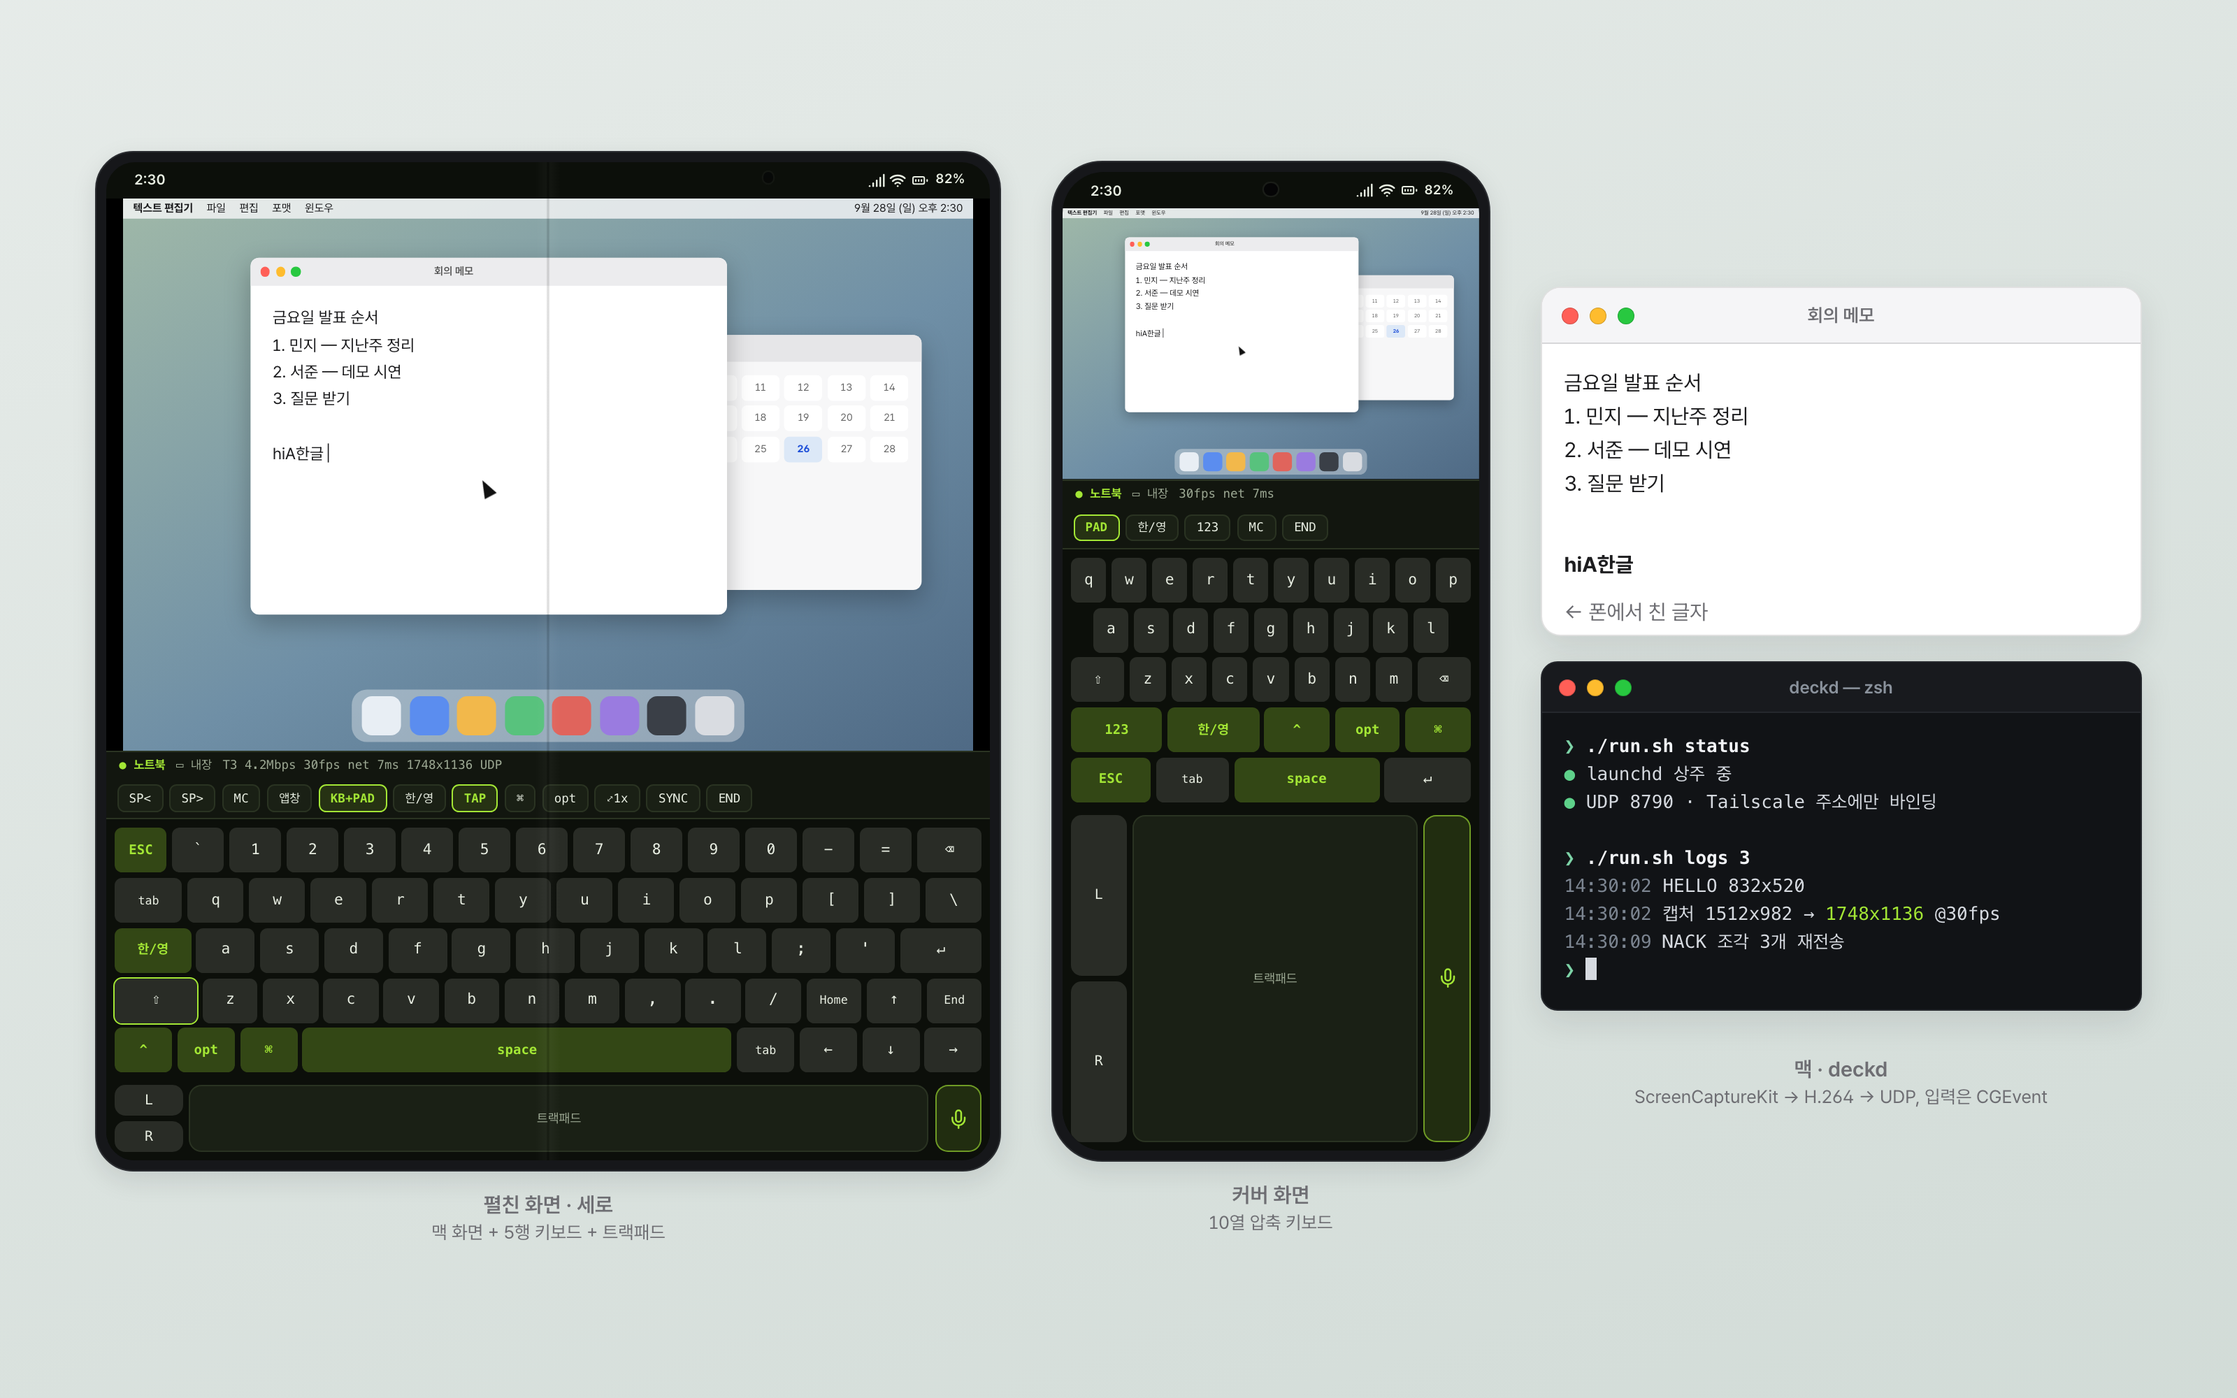
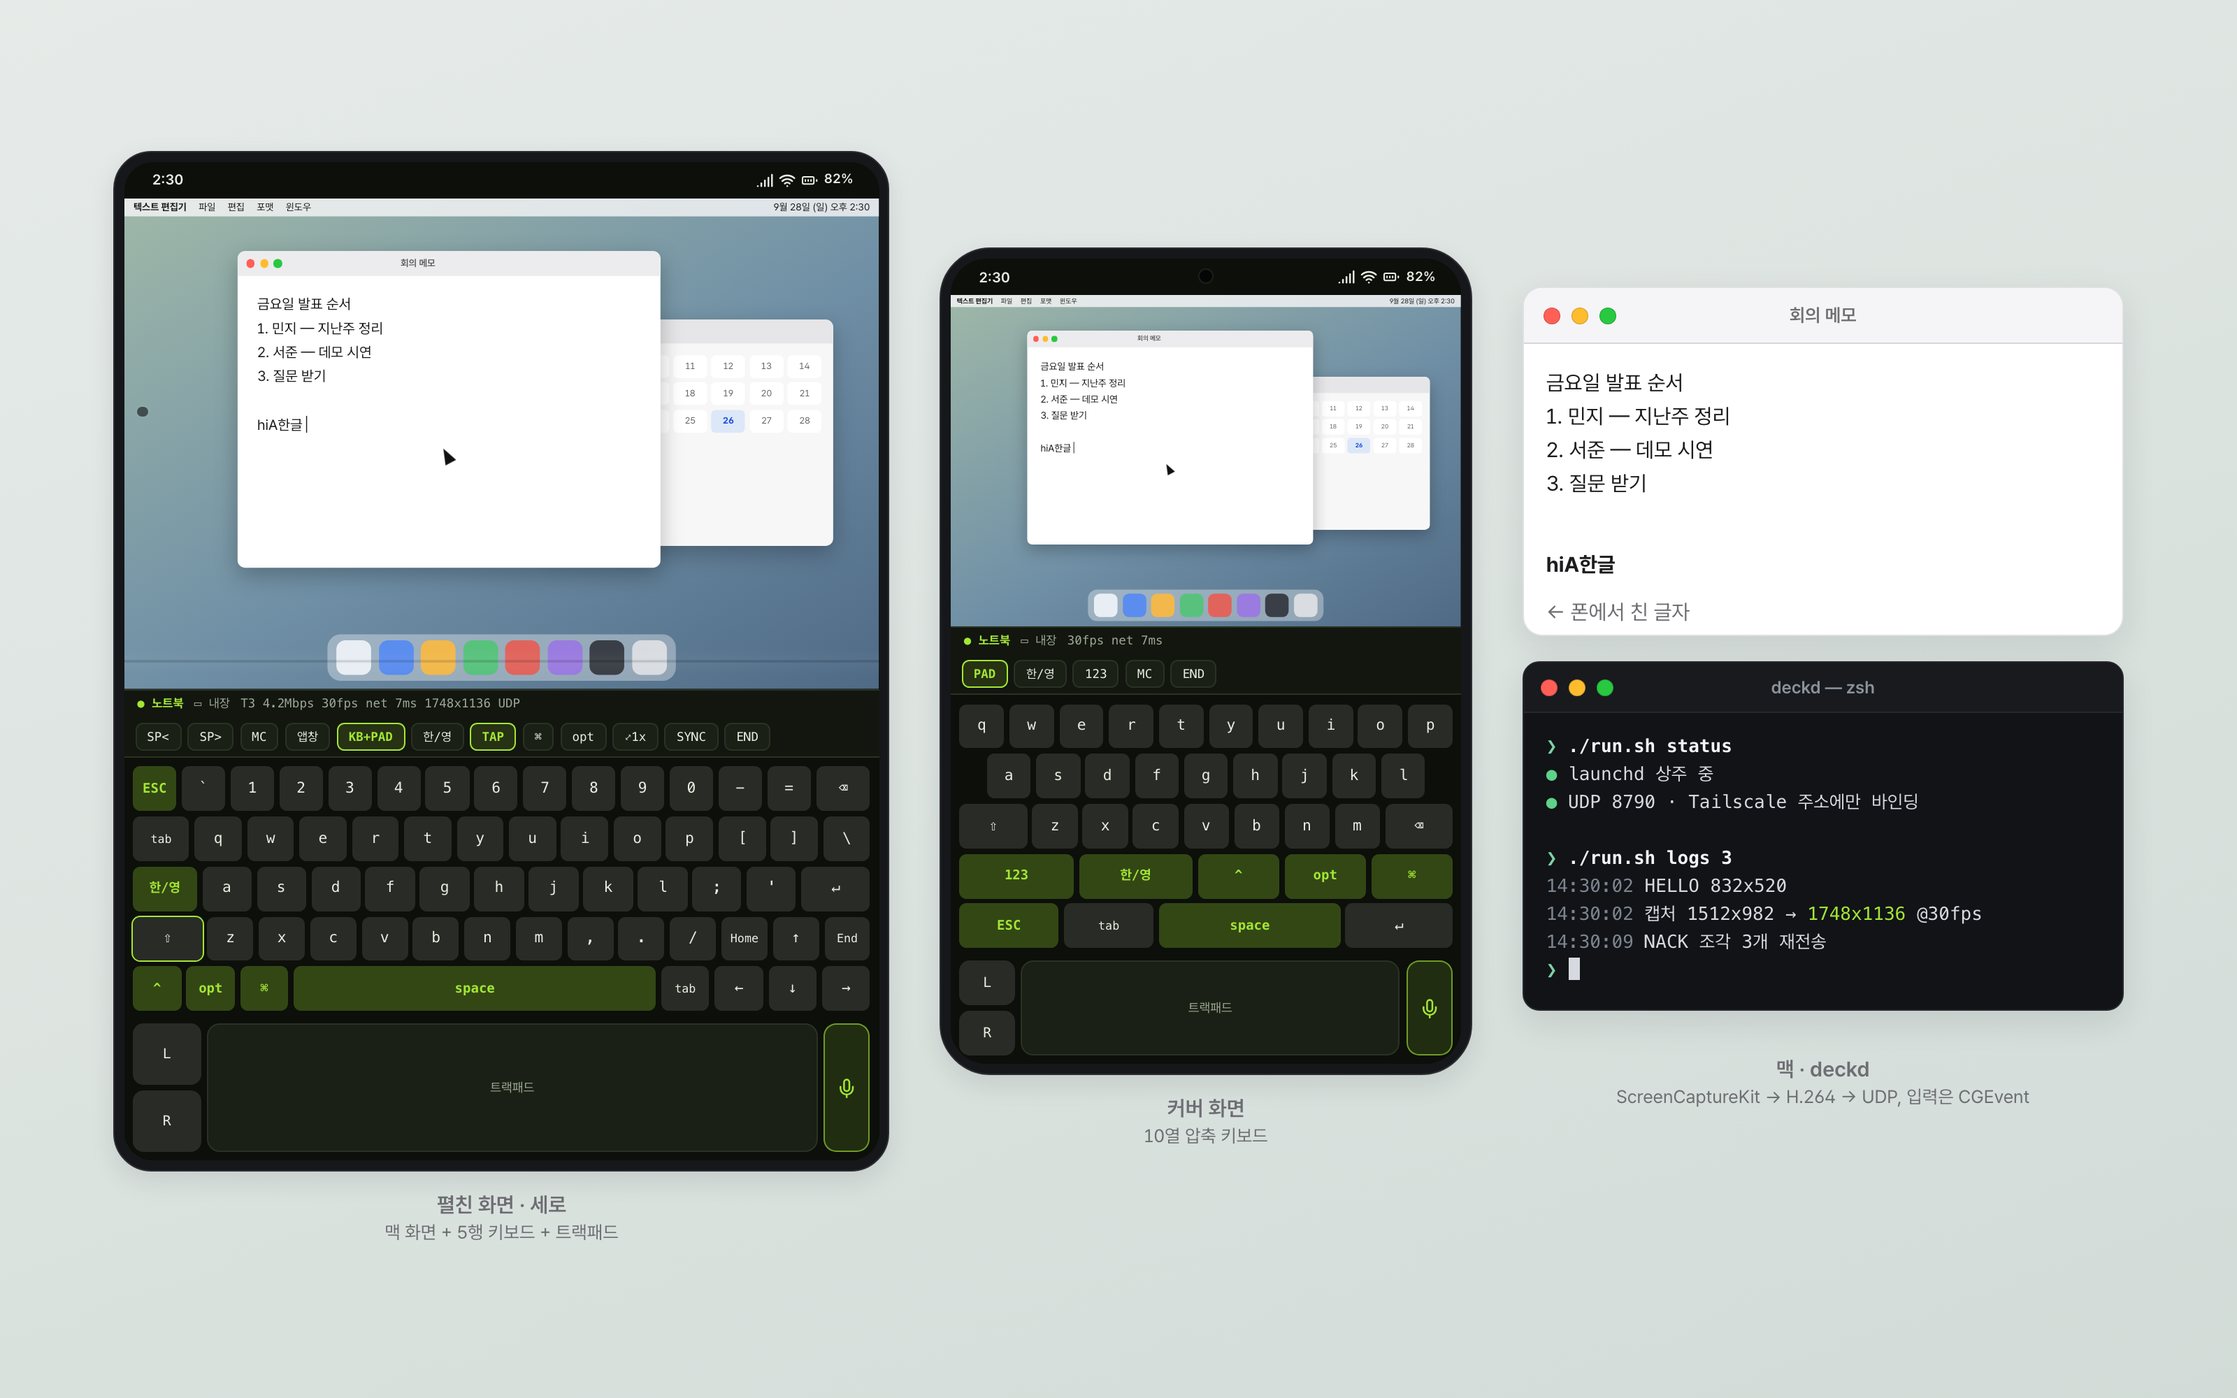
docs: re-render mockups at real Galaxy Z Fold8 ratios

diff --git a/docs/mockups/02-postures.html b/docs/mockups/02-postures.html
@@ -53,7 +53,6 @@
   .callout { position: absolute; z-index: 30; background: var(--raised); color: var(--text); border: 1px solid var(--border); border-radius: 12px; padding: 10px 14px; font-size: 14px; line-height: 20px; box-shadow: var(--shadow-float); }
   .callout b { color: var(--accent); }
 
-  .land > .screen { width: 940px !important; height: 700px !important; }
   .dock-float { position: absolute; right: 18px; bottom: 44px; width: 330px; border-radius: 16px; background: color-mix(in srgb, var(--panel) 92%, transparent); border: 1px solid var(--border); box-shadow: var(--shadow-float); overflow: hidden; }
   .dock-float .grip { height: 28px; display: flex; align-items: center; justify-content: center; font-size: 12px; color: var(--accent); font-weight: 700; border-bottom: 1px solid var(--border); gap: 6px; }
   .dock-float .keys { display: grid; grid-template-columns: repeat(6, 1fr); gap: 5px; padding: 6px 8px 8px; }
@@ -62,9 +61,9 @@
 </head><body>
 <div class="canvas app-cyberdeck desk-accent">
   <div class="stage" style="gap:34px;align-items:center">
-    <div><div class="fold-open dark deck" style="--zoom:0.62"><div class="screen">
+    <div><div class="fold-open portrait dark deck" style="--zoom:0.62"><div class="screen">
   <div class="status-bar" data-time="2:30"></div>
-  <div class="stream" style="height:520px"><div class="mm-wrap" style="width:800px;height:520px"><div class="mm" style="transform:scale(0.8000)">
+  <div class="stream" style="height:462px"><div class="mm-wrap" style="width:710px;height:462px"><div class="mm" style="transform:scale(0.7100)">
   <div class="bar"><b>텍스트 편집기</b><span>파일</span><span>편집</span><span>포맷</span><span>윈도우</span><span class="r">9월 28일 (일) 오후 2:30</span></div>
   <div class="win2"><div class="tb"><i></i><i></i><i></i></div><div class="cal"><span class="">8</span><span class="">9</span><span class="">10</span><span class="">11</span><span class="">12</span><span class="">13</span><span class="">14</span><span class="">15</span><span class="">16</span><span class="">17</span><span class="">18</span><span class="">19</span><span class="">20</span><span class="">21</span><span class="">22</span><span class="">23</span><span class="">24</span><span class="">25</span><span class="h">26</span><span class="">27</span><span class="">28</span><span class="">29</span><span class="">30</span></div></div>
   <div class="win"><div class="tb"><i></i><i></i><i></i><span>회의 메모</span></div>
@@ -108,7 +107,7 @@ hiA한글 <span class="cur"></span></div></div>
 </div></div><div class="device-label">펼침 가로 · 보기용<small>전체화면 + 플로팅 독</small></div></div>
     <div><div class="fold-cover dark deck" style="--zoom:0.62"><div class="screen">
   <div class="status-bar" data-time="2:30"></div>
-  <div class="stream" style="height:256px"><div class="mm-wrap" style="width:392px;height:256px"><div class="mm" style="transform:scale(0.3920)">
+  <div class="stream" style="height:312px"><div class="mm-wrap" style="width:480px;height:312px"><div class="mm" style="transform:scale(0.4800)">
   <div class="bar"><b>텍스트 편집기</b><span>파일</span><span>편집</span><span>포맷</span><span>윈도우</span><span class="r">9월 28일 (일) 오후 2:30</span></div>
   <div class="win2"><div class="tb"><i></i><i></i><i></i></div><div class="cal"><span class="">8</span><span class="">9</span><span class="">10</span><span class="">11</span><span class="">12</span><span class="">13</span><span class="">14</span><span class="">15</span><span class="">16</span><span class="">17</span><span class="">18</span><span class="">19</span><span class="">20</span><span class="">21</span><span class="">22</span><span class="">23</span><span class="">24</span><span class="">25</span><span class="h">26</span><span class="">27</span><span class="">28</span><span class="">29</span><span class="">30</span></div></div>
   <div class="win"><div class="tb"><i></i><i></i><i></i><span>회의 메모</span></div>

diff --git a/docs/mockups/thumbnail.html b/docs/mockups/thumbnail.html
@@ -62,9 +62,9 @@
     <div class="canvas-sub" style="font-size:18px;line-height:28px">ScreenCaptureKit → H.264 → UDP · CGEvent 주입<br>30fps · net 6~9ms · 조각 재전송으로 키프레임 100%</div>
   </div>
   <div style="position:absolute;right:80px;top:0;bottom:0;display:flex;align-items:center;gap:26px">
-    <div class="fold-open dark deck" style="--zoom:0.72"><div class="screen">
+    <div class="fold-open portrait dark deck" style="--zoom:0.72"><div class="screen">
   <div class="status-bar" data-time="2:30"></div>
-  <div class="stream" style="height:520px"><div class="mm-wrap" style="width:800px;height:520px"><div class="mm" style="transform:scale(0.8000)">
+  <div class="stream" style="height:462px"><div class="mm-wrap" style="width:710px;height:462px"><div class="mm" style="transform:scale(0.7100)">
   <div class="bar"><b>텍스트 편집기</b><span>파일</span><span>편집</span><span>포맷</span><span>윈도우</span><span class="r">9월 28일 (일) 오후 2:30</span></div>
   <div class="win2"><div class="tb"><i></i><i></i><i></i></div><div class="cal"><span class="">8</span><span class="">9</span><span class="">10</span><span class="">11</span><span class="">12</span><span class="">13</span><span class="">14</span><span class="">15</span><span class="">16</span><span class="">17</span><span class="">18</span><span class="">19</span><span class="">20</span><span class="">21</span><span class="">22</span><span class="">23</span><span class="">24</span><span class="">25</span><span class="h">26</span><span class="">27</span><span class="">28</span><span class="">29</span><span class="">30</span></div></div>
   <div class="win"><div class="tb"><i></i><i></i><i></i><span>회의 메모</span></div>
@@ -85,7 +85,7 @@ hiA한글 <span class="cur"></span></div></div>
 </div></div>
     <div class="fold-cover dark deck" style="--zoom:0.72"><div class="screen">
   <div class="status-bar" data-time="2:30"></div>
-  <div class="stream" style="height:256px"><div class="mm-wrap" style="width:392px;height:256px"><div class="mm" style="transform:scale(0.3920)">
+  <div class="stream" style="height:312px"><div class="mm-wrap" style="width:480px;height:312px"><div class="mm" style="transform:scale(0.4800)">
   <div class="bar"><b>텍스트 편집기</b><span>파일</span><span>편집</span><span>포맷</span><span>윈도우</span><span class="r">9월 28일 (일) 오후 2:30</span></div>
   <div class="win2"><div class="tb"><i></i><i></i><i></i></div><div class="cal"><span class="">8</span><span class="">9</span><span class="">10</span><span class="">11</span><span class="">12</span><span class="">13</span><span class="">14</span><span class="">15</span><span class="">16</span><span class="">17</span><span class="">18</span><span class="">19</span><span class="">20</span><span class="">21</span><span class="">22</span><span class="">23</span><span class="">24</span><span class="">25</span><span class="h">26</span><span class="">27</span><span class="">28</span><span class="">29</span><span class="">30</span></div></div>
   <div class="win"><div class="tb"><i></i><i></i><i></i><span>회의 메모</span></div>

diff --git a/docs/mockups/01-hero.html b/docs/mockups/01-hero.html
@@ -56,9 +56,9 @@
 </head><body>
 <div class="canvas app-cyberdeck desk-accent">
   <div class="stage" style="gap:36px">
-    <div><div class="fold-open dark deck" style="--zoom:0.76"><div class="screen">
+    <div><div class="fold-open portrait dark deck" style="--zoom:0.76"><div class="screen">
   <div class="status-bar" data-time="2:30"></div>
-  <div class="stream" style="height:520px"><div class="mm-wrap" style="width:800px;height:520px"><div class="mm" style="transform:scale(0.8000)">
+  <div class="stream" style="height:462px"><div class="mm-wrap" style="width:710px;height:462px"><div class="mm" style="transform:scale(0.7100)">
   <div class="bar"><b>텍스트 편집기</b><span>파일</span><span>편집</span><span>포맷</span><span>윈도우</span><span class="r">9월 28일 (일) 오후 2:30</span></div>
   <div class="win2"><div class="tb"><i></i><i></i><i></i></div><div class="cal"><span class="">8</span><span class="">9</span><span class="">10</span><span class="">11</span><span class="">12</span><span class="">13</span><span class="">14</span><span class="">15</span><span class="">16</span><span class="">17</span><span class="">18</span><span class="">19</span><span class="">20</span><span class="">21</span><span class="">22</span><span class="">23</span><span class="">24</span><span class="">25</span><span class="h">26</span><span class="">27</span><span class="">28</span><span class="">29</span><span class="">30</span></div></div>
   <div class="win"><div class="tb"><i></i><i></i><i></i><span>회의 메모</span></div>
@@ -79,7 +79,7 @@ hiA한글 <span class="cur"></span></div></div>
 </div></div><div class="device-label">펼친 화면 · 세로<small>맥 화면 + 5행 키보드 + 트랙패드</small></div></div>
     <div><div class="fold-cover dark deck" style="--zoom:0.76"><div class="screen">
   <div class="status-bar" data-time="2:30"></div>
-  <div class="stream" style="height:256px"><div class="mm-wrap" style="width:392px;height:256px"><div class="mm" style="transform:scale(0.3920)">
+  <div class="stream" style="height:312px"><div class="mm-wrap" style="width:480px;height:312px"><div class="mm" style="transform:scale(0.4800)">
   <div class="bar"><b>텍스트 편집기</b><span>파일</span><span>편집</span><span>포맷</span><span>윈도우</span><span class="r">9월 28일 (일) 오후 2:30</span></div>
   <div class="win2"><div class="tb"><i></i><i></i><i></i></div><div class="cal"><span class="">8</span><span class="">9</span><span class="">10</span><span class="">11</span><span class="">12</span><span class="">13</span><span class="">14</span><span class="">15</span><span class="">16</span><span class="">17</span><span class="">18</span><span class="">19</span><span class="">20</span><span class="">21</span><span class="">22</span><span class="">23</span><span class="">24</span><span class="">25</span><span class="h">26</span><span class="">27</span><span class="">28</span><span class="">29</span><span class="">30</span></div></div>
   <div class="win"><div class="tb"><i></i><i></i><i></i><span>회의 메모</span></div>

diff --git a/docs/mockups/scenes/3-dictation-phone.html b/docs/mockups/scenes/3-dictation-phone.html
@@ -1,11 +1,11 @@
 <!doctype html>
 <html lang="ko"><head><meta charset="utf-8">
-<meta name="shot" content="w=432,h=600,scale=3">
+<meta name="shot" content="w=480,h=760,scale=2.4">
 <title>장면 3 폰 — 커버 받아쓰기</title>
 <link rel="stylesheet" href="https://mockup-kit.invalid/kit.css">
 <script src="https://mockup-kit.invalid/kit.js"></script>
 <style>
-html,body{width:432px;height:600px;overflow:hidden;position:relative}
+html,body{width:480px;height:760px;overflow:hidden;position:relative}
 
 .desk{position:absolute;left:0;top:0;width:1600px;height:1000px;overflow:hidden;font-family:"Pretendard",sans-serif;color:#1d1d1f;
   background:linear-gradient(150deg,#A9C2B2 0%,#7A98AE 55%,#566F8A 100%);transform-origin:0 0}
@@ -59,7 +59,7 @@ body{background:#000}
 </head><body>
 <div class="ph dark app-cyberdeck deck">
 <div class="status-bar" data-time="2:31" style="height:32px;font-size:15px;padding:0 14px"></div>
-<div class="stream" style="width:432px;height:270px"><div class="fit"><div class="desk" style="transform:scale(0.27)">
+<div class="stream" style="width:480px;height:300px"><div class="fit"><div class="desk" style="transform:scale(0.3)">
 <div class="bar"><b>메모</b><span>파일</span><span>편집</span><span>포맷</span><span>보기</span><span>윈도우</span><span class="r"><span>100%</span><span>9월 28일 (월) 오후 2:30</span></span></div><div class="win back" style="left:80px;top:130px;width:620px;height:560px"><div class="tb"><i></i><i></i><i></i><span>사진</span></div></div><div class="win" style="left:760px;top:96px;width:780px;height:660px"><div class="tb"><i></i><i></i><i></i><span>장보기 메모</span></div>
   <div class="doc" style="font-size:48px;line-height:76px"><b>토요일 장보기</b>
 우유 두 팩

diff --git a/docs/mockups/scenes/3-dictation-mac.html b/docs/mockups/scenes/3-dictation-mac.html
@@ -1,11 +1,11 @@
 <!doctype html>
 <html lang="ko"><head><meta charset="utf-8">
-<meta name="shot" content="w=1389,h=1000,scale=1.3">
+<meta name="shot" content="w=1238,h=1000,scale=1.46">
 <title>장면 3 맥 — 장보기 메모 (화면 오른쪽 부분)</title>
 <link rel="stylesheet" href="https://mockup-kit.invalid/kit.css">
 <script src="https://mockup-kit.invalid/kit.js"></script>
 <style>
-html,body{width:1389px;height:1000px;overflow:hidden;position:relative}
+html,body{width:1238px;height:1000px;overflow:hidden;position:relative}
 
 .desk{position:absolute;left:0;top:0;width:1600px;height:1000px;overflow:hidden;font-family:"Pretendard",sans-serif;color:#1d1d1f;
   background:linear-gradient(150deg,#A9C2B2 0%,#7A98AE 55%,#566F8A 100%);transform-origin:0 0}
@@ -57,7 +57,7 @@ body{background:#000}
 
 </style>
 </head><body>
-<div class="desk" style="left:-211px">
+<div class="desk" style="left:-362px">
 <div class="bar"><b>메모</b><span>파일</span><span>편집</span><span>포맷</span><span>보기</span><span>윈도우</span><span class="r"><span>100%</span><span>9월 28일 (월) 오후 2:30</span></span></div><div class="win back" style="left:80px;top:130px;width:620px;height:560px"><div class="tb"><i></i><i></i><i></i><span>사진</span></div></div><div class="win" style="left:760px;top:96px;width:780px;height:660px"><div class="tb"><i></i><i></i><i></i><span>장보기 메모</span></div>
   <div class="doc" style="font-size:48px;line-height:76px"><b>토요일 장보기</b>
 우유 두 팩

diff --git a/docs/mockups/04-input.html b/docs/mockups/04-input.html
@@ -62,7 +62,7 @@
   <div class="stage" style="gap:60px">
     <div><div class="fold-cover dark deck" style="--zoom:.8"><div class="screen">
   <div class="status-bar" data-time="2:31"></div>
-  <div class="stream" style="height:256px"><div class="mm-wrap" style="width:392px;height:256px"><div class="mm" style="transform:scale(0.3920)">
+  <div class="stream" style="height:312px"><div class="mm-wrap" style="width:480px;height:312px"><div class="mm" style="transform:scale(0.4800)">
   <div class="bar"><b>텍스트 편집기</b><span>파일</span><span>편집</span><span>포맷</span><span>윈도우</span><span class="r">9월 28일 (일) 오후 2:30</span></div>
   <div class="win2"><div class="tb"><i></i><i></i><i></i></div><div class="cal"><span class="">8</span><span class="">9</span><span class="">10</span><span class="">11</span><span class="">12</span><span class="">13</span><span class="">14</span><span class="">15</span><span class="">16</span><span class="">17</span><span class="">18</span><span class="">19</span><span class="">20</span><span class="">21</span><span class="">22</span><span class="">23</span><span class="">24</span><span class="">25</span><span class="h">26</span><span class="">27</span><span class="">28</span><span class="">29</span><span class="">30</span></div></div>
   <div class="win"><div class="tb"><i></i><i></i><i></i><span>회의 메모</span></div>
